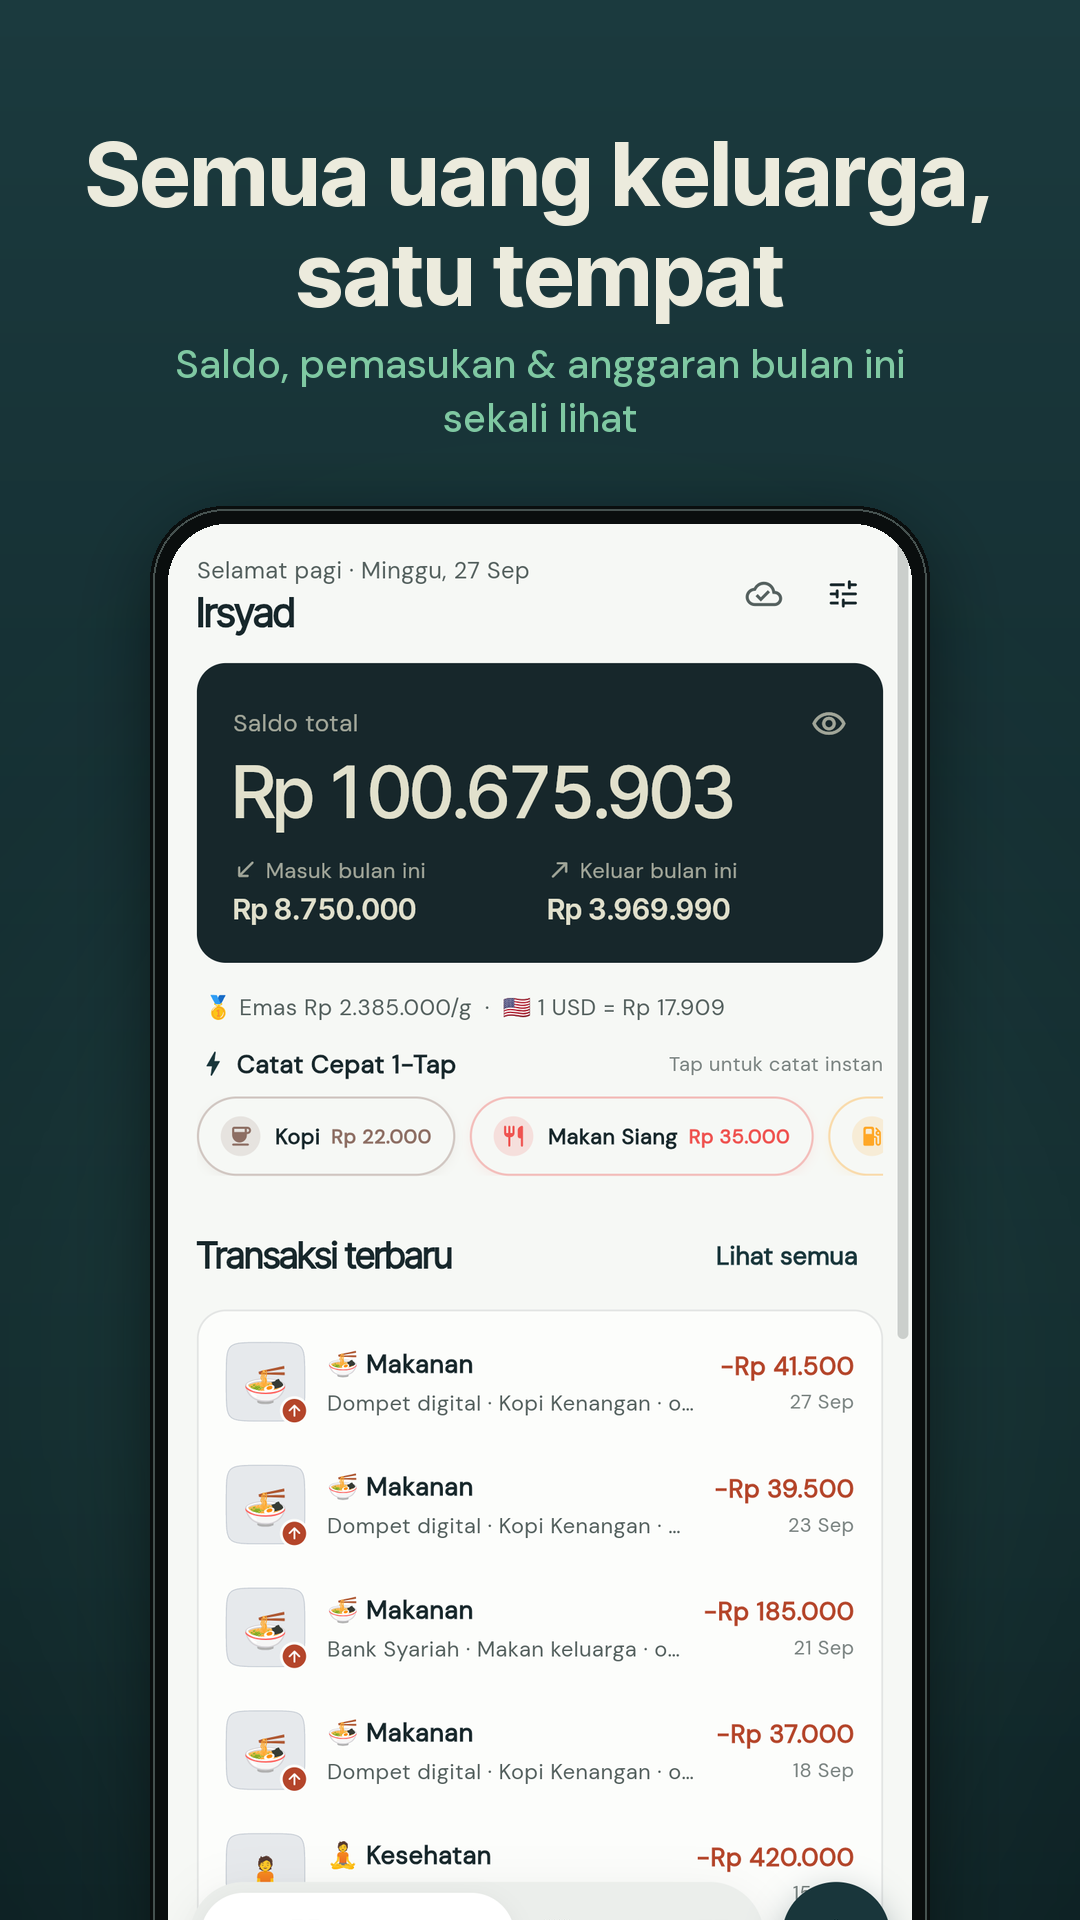
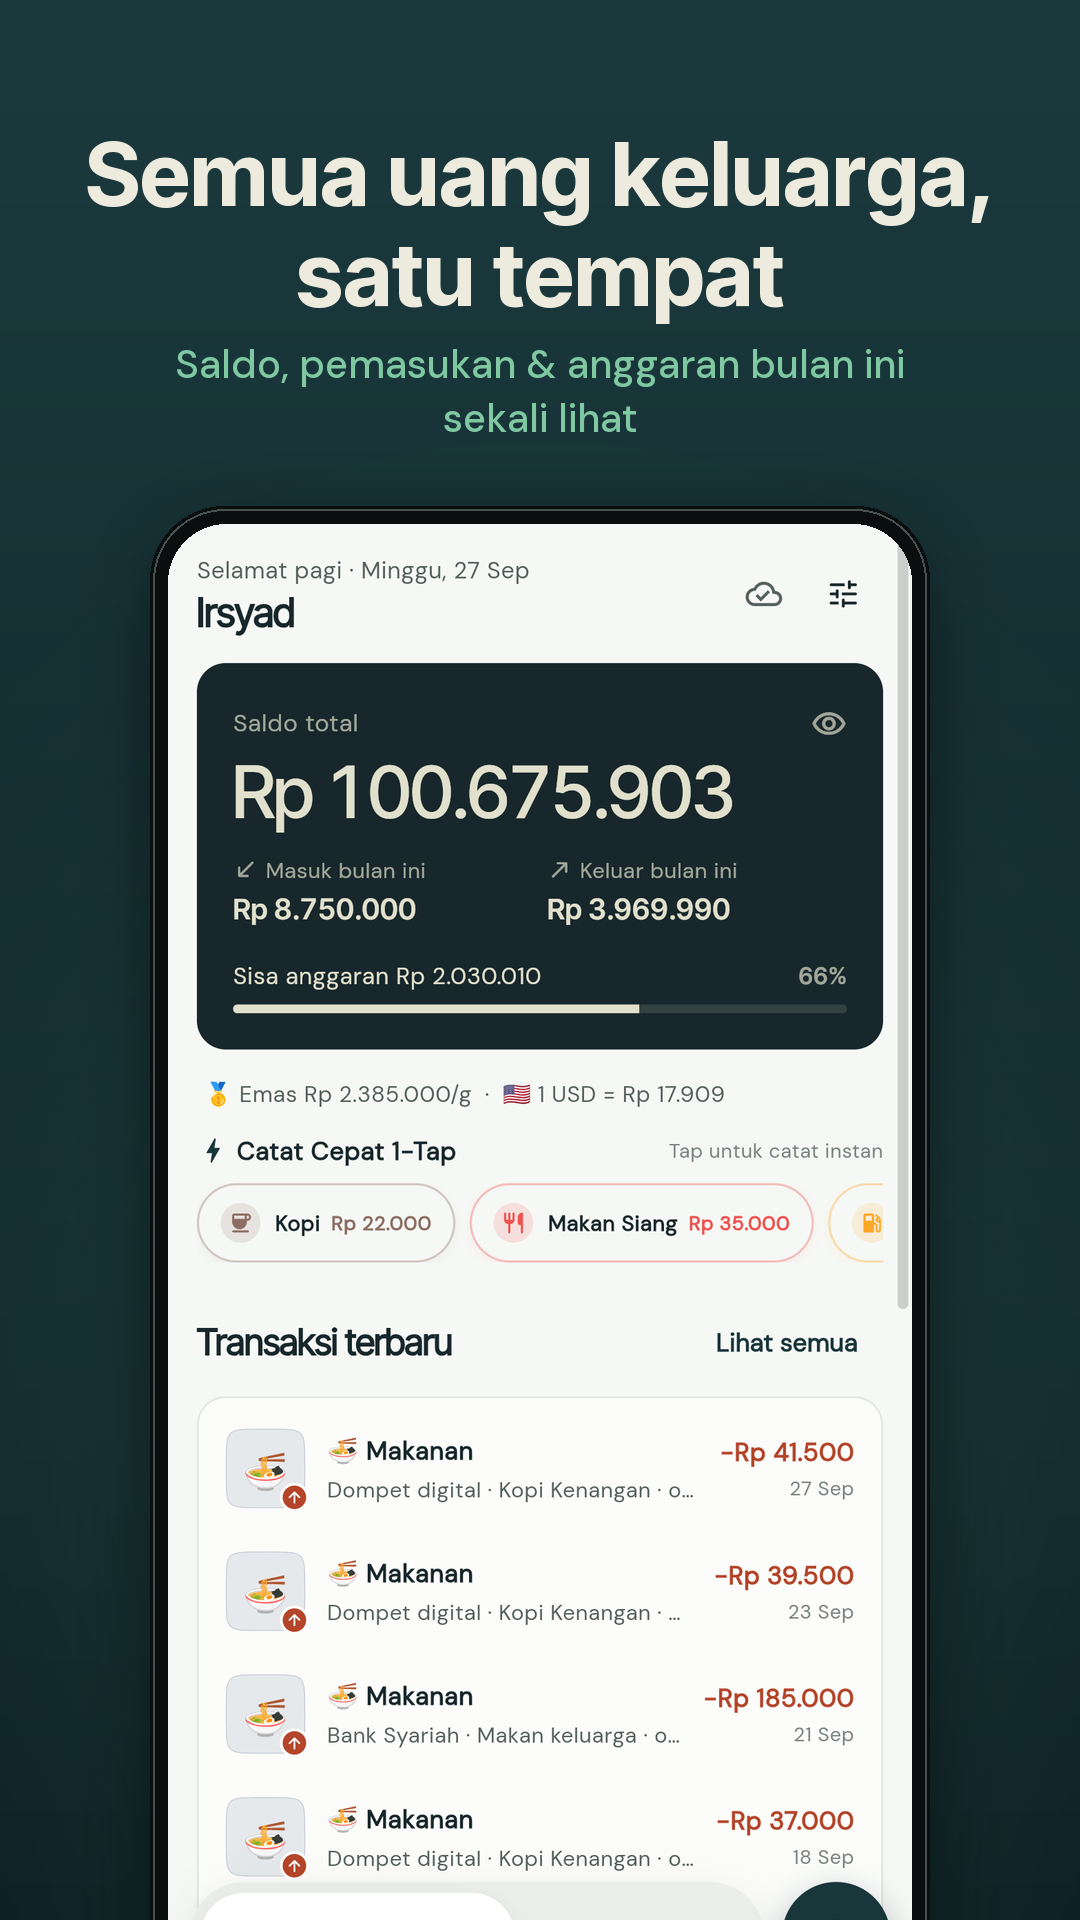
docs(play): deskripsi toko baru + set gambar terang "versi panjang" (8)
- description-id-ID.txt (3.079/4.000) & short-description (79/80): memuat
  fitur 1.3.0 (dolar/valas, emas Antam, kartu dompet, gestur, NFC di
  Beranda), menghapus klaim impor Money Manager, dan meluruskan dua klaim
  (peringatan anggaran di dalam aplikasi, bukan notifikasi; saldo NFC
  dicatat setelah dikonfirmasi, bukan otomatis). Dijaga tes panjang.
- store-1…8-*.png: latar terang ala aplikasi keuangan besar — pembuka
  logo + HP miring, slide "Tanpa iklan", lalu Catat, Dolar & emas,
  Anggaran, Laporan, Keluarga, Target.
- Data demo: contoh anggaran bulanan & per kategori serta dua target
  tabungan, agar layar tersebut berisi.

diff --git a/lib/app/demo_mode.dart b/lib/app/demo_mode.dart
@@ -1,5 +1,9 @@
 import 'package:uuid/uuid.dart';
 import 'package:financial_recording/data/models/account_model/account_model.dart';
+import 'package:financial_recording/data/models/budget_model/budget_model.dart';
+import 'package:financial_recording/data/models/goal_model/goal_model.dart';
+import 'package:financial_recording/data/repositories/budget_repository.dart';
+import 'package:financial_recording/data/repositories/goal_repository.dart';
 import 'package:financial_recording/data/models/tx_model/tx_model.dart';
 import 'package:financial_recording/data/models/crypto_model/crypto_holding_model.dart';
 import 'package:financial_recording/data/repositories/account_repository.dart';
@@ -99,6 +103,24 @@ Future<void> seedDemoData(DateTime now) async {
     imageUrl: 'https://coin-images.coingecko.com/coins/images/279/thumb/ethereum.png', note: 'Disimpan di Indodax',
   ));
   if (kDemoBig) await _seedBulk(now, [bank.id, wallet.id, savings.id], cats);
+  // A monthly budget and two savings goals, so those screens aren't empty.
+  final month = DateTime(now.year, now.month);
+  final budgets = BudgetRepository();
+  await budgets.upsert(BudgetModel(id: uuid.v4(), isTotal: true, amount: 6000000, startMonth: month));
+  for (final (name, limit) in [('Makanan', 2000000), ('Transportasi', 800000), ('Hiburan', 500000)]) {
+    await budgets.upsert(BudgetModel(id: uuid.v4(), categoryId: cat(name, 1), amount: limit, startMonth: month));
+  }
+  final goals = FinancialGoalRepository();
+  await goals.upsert(FinancialGoalModel(id: uuid.v4(), title: 'Dana Darurat', targetAmount: 30000000, currentAmount: 12500000, colorValue: 0xFF1F8A70));
+  await goals.upsert(FinancialGoalModel(
+    id: uuid.v4(),
+    title: 'Umroh Keluarga',
+    targetAmount: 60000000,
+    currentAmount: 18000000,
+    targetDate: DateTime(now.year + 1, 10),
+    colorValue: 0xFFB8892E,
+  ));
+
   await LedgerService().recomputeAllBalances();
 }
 

diff --git a/test/version_test.dart b/test/version_test.dart
@@ -18,6 +18,15 @@ void main() {
     expect(whatsNew.length, lessThanOrEqualTo(500));
   });
 
+  test('deskripsi Play dalam batas karakter (80 & 4000)', () {
+    final short = File('docs/play-store/short-description-id-ID.txt').readAsStringSync().trim();
+    final full = File('docs/play-store/description-id-ID.txt').readAsStringSync().trim();
+    expect(short.length, lessThanOrEqualTo(80));
+    expect(full.length, lessThanOrEqualTo(4000));
+    // Fitur yang sudah dihapus tidak boleh diiklankan.
+    expect(full.toLowerCase(), isNot(contains('mmbak')));
+  });
+
   test('urutan kartu tersimpan: akun terhapus dibuang, akun baru di depan', () {
     expect(CardOrderPrefs.apply(['b', 'x', 'a'], ['a', 'b', 'c']), ['c', 'b', 'a']);
     expect(CardOrderPrefs.apply([], ['a', 'b']), ['a', 'b']);

diff --git a/tool/store_listing.py b/tool/store_listing.py
@@ -1,5 +1,10 @@
 """Google Play listing images: app screens in a phone frame with a headline.
 
+Two sets are written:
+- listing-*.png: dark brand-green backdrop, 6 slides;
+- store-*.png: the "long" light set in the style of the big finance apps —
+  an intro slide (logo + tilted phone), a trust slide, then feature slides.
+
     flutter build web --release --dart-define=WALLET_DEMO=true -o <dir>
     python tool/store_listing.py <dir>
 
@@ -104,6 +109,19 @@ def capture(root):
         tap('Kategori')
         save('kategori')
 
+        tap('Lainnya')
+        tap('Keluarga')
+        page.wait_for_timeout(1200)
+        save('keluarga')
+
+        tap('Lainnya')
+        tap('Anggaran')
+        save('anggaran')
+
+        tap('Lainnya')
+        tap('Target')
+        save('target')
+
         ctx.close()
         browser.close()
     server.shutdown()
@@ -189,8 +207,120 @@ def compose(i, name, title, sub):
     print('saved', path)
 
 
+# ---------------------------------------------------------------- light set
+
+INK = (23, 39, 43)
+MUTED = (85, 97, 95)
+GREEN = (31, 138, 112)
+BG_TOP = (246, 248, 245)
+BG_BOTTOM = (221, 229, 224)
+
+LIGHT_SLIDES = [
+    ('intro', 'beranda', None, None),
+    ('trust', 'kartu', 'Tanpa iklan,\ntanpa jual data', None),
+    ('feature', 'catat', 'Catat dalam\nhitungan detik', 'Titik ribuan otomatis, tombol cepat\n& kalkulator bawaan'),
+    ('feature', 'akun', 'Dolar & emas,\nnilai hari ini', 'Kurs dunia & harga Antam per gram,\ndiperbarui otomatis'),
+    ('feature', 'anggaran', 'Atur anggaran,\ntanpa kaget', 'Peringatan dini sebelum\npengeluaran melewati batas'),
+    ('feature', 'laporan', 'Laporan yang\nmudah dipahami', 'Ke mana uang pergi, dan apa\nlangkah berikutnya'),
+    ('feature', 'keluarga', 'Satu buku kas\nuntuk seisi rumah', 'Undang keluarga dengan kode,\ncatat bersama secara langsung'),
+    ('feature', 'target', 'Wujudkan target\ntabungan', 'Dana darurat, umroh, sekolah anak —\npantau progresnya'),
+]
+
+
+def light_backdrop():
+    img = Image.new('RGB', (CW, CH))
+    d = ImageDraw.Draw(img)
+    for y in range(CH):
+        t = y / CH
+        d.line([(0, y), (CW, y)], fill=tuple(round(a + (b - a) * t) for a, b in zip(BG_TOP, BG_BOTTOM)))
+    return img.convert('RGBA')
+
+
+def centered(d, y, text, f, fill, gap):
+    for line in text.split('\n'):
+        w = d.textlength(line, font=f)
+        d.text(((CW - w) / 2, y), line, font=f, fill=fill)
+        y += gap
+    return y
+
+
+def drop_shadow(img, layer, pos, blur=38, alpha=90, offset=(0, 34)):
+    a = layer.split()[-1].point(lambda v: alpha if v > 0 else 0)
+    shadow = Image.new('RGBA', layer.size, (20, 40, 36, 0))
+    shadow.putalpha(a)
+    canvas = Image.new('RGBA', img.size, (0, 0, 0, 0))
+    canvas.alpha_composite(shadow, (pos[0] + offset[0], pos[1] + offset[1]))
+    img.alpha_composite(canvas.filter(ImageFilter.GaussianBlur(blur)))
+    img.alpha_composite(layer, pos)
+
+
+def light_feature(name, title, sub):
+    img = light_backdrop()
+    d = ImageDraw.Draw(img)
+    y = centered(d, 130, title, font('InterTight-Bold.ttf', 86), INK, 98)
+    y = centered(d, y + 18, sub, font('DMSans-Medium.ttf', 38), MUTED, 52)
+    ph = phone(Image.open(f'{RAW}/{name}.png'), 780)
+    drop_shadow(img, ph, ((CW - ph.width) // 2, y + 70))
+    return img
+
+
+def light_intro(name):
+    img = light_backdrop()
+    d = ImageDraw.Draw(img)
+    icon = Image.open(f'{OUT}/icon-512.png').convert('RGBA').resize((190, 190), Image.LANCZOS)
+    icon = rounded(icon, 44)
+    word = font('InterTight-Bold.ttf', 132)
+    ww = d.textlength('Wallet', font=word)
+    x = (CW - (190 + 36 + ww)) / 2
+    drop_shadow(img, icon, (int(x), 150), blur=24, alpha=70, offset=(0, 16))
+    d.text((x + 190 + 36, 162), 'Wallet', font=word, fill=INK)
+    centered(d, 390, 'Buku kas keluarga', font('InterTight-SemiBold.ttf', 58), GREEN, 70)
+    centered(d, 480, 'Catat, atur, dan pahami uang Anda', font('DMSans-Medium.ttf', 38), MUTED, 50)
+    ph = phone(Image.open(f'{RAW}/{name}.png'), 820).rotate(-16, resample=Image.BICUBIC, expand=True)
+    drop_shadow(img, ph, (CW - ph.width + 170, 620), blur=46, alpha=110, offset=(-30, 40))
+    return img
+
+
+def light_trust(name, title):
+    img = light_backdrop()
+    d = ImageDraw.Draw(img)
+    y = centered(d, 130, title, font('InterTight-Bold.ttf', 86), INK, 98)
+    chip_font = font('DMSans-SemiBold.ttf', 36)
+    chips = ['Tanpa iklan', 'Sinkron antarperangkat', 'Kunci PIN', 'Bisa dipakai offline']
+    rows = [chips[:2], chips[2:]]
+    y += 40
+    for row in rows:
+        widths = [d.textlength(c, font=chip_font) + 110 for c in row]
+        x = (CW - (sum(widths) + 24 * (len(row) - 1))) / 2
+        for c, w in zip(row, widths):
+            d.rounded_rectangle([x, y, x + w, y + 78], 39, fill=(255, 255, 255), outline=(205, 215, 209), width=2)
+            cx, cy = x + 44, y + 39
+            d.ellipse([cx - 18, cy - 18, cx + 18, cy + 18], fill=GREEN)
+            d.line([(cx - 8, cy + 1), (cx - 2, cy + 7), (cx + 9, cy - 6)], fill=(255, 255, 255), width=5)
+            d.text((x + 76, y + 18), c, font=chip_font, fill=INK)
+            x += w + 24
+        y += 100
+    ph = phone(Image.open(f'{RAW}/{name}.png'), 760)
+    drop_shadow(img, ph, ((CW - ph.width) // 2, y + 50))
+    return img
+
+
+def compose_light():
+    for i, (kind, name, title, sub) in enumerate(LIGHT_SLIDES):
+        if kind == 'intro':
+            img = light_intro(name)
+        elif kind == 'trust':
+            img = light_trust(name, title)
+        else:
+            img = light_feature(name, title, sub)
+        path = f'{OUT}/store-{i + 1}-{name}.png'
+        img.convert('RGB').save(path, optimize=True)
+        print('saved', path)
+
+
 if __name__ == '__main__':
     if len(sys.argv) > 1:
         capture(sys.argv[1])
     for i, (name, title, sub) in enumerate(SLIDES):
         compose(i, name, title, sub)
+    compose_light()

diff --git a/docs/PLAY_STORE.md b/docs/PLAY_STORE.md
@@ -20,7 +20,7 @@ Status per 25 September 2026. Paket aplikasi: **`com.irsyads.wallet`**.
 **Yang masih perlu Anda siapkan sebelum mengisi Play Console:**
 
 1. ~~Email dukungan~~ ✅ `irsyad.msk@gmail.com` (dipakai di kebijakan privasi, halaman hapus akun, dan kolom kontak Play).
-2. ~~Screenshot~~ ✅ **Gambar toko berjudul** `docs/play-store/listing-1…6-*.png` (1080×1920, 9:16, layar dalam bingkai HP + judul) — pakai ini di Play Console. Dibuat ulang dengan `tool/store_listing.py <build web demo>`. Tangkapan polos lama `screenshot-*.png` (tool/store_screenshots.py) masih ada sebagai cadangan.
+2. ~~Screenshot~~ ✅ **Gambar toko berjudul** `docs/play-store/listing-1…6-*.png` (1080×1920, 9:16, layar dalam bingkai HP + judul) — pakai ini di Play Console. Dibuat ulang dengan `tool/store_listing.py <build web demo>`. Set terang "versi panjang" 8 gambar `store-1…8-*.png` (pembuka logo + HP miring, slide kepercayaan, lalu fitur) juga dibuat alat yang sama. Deskripsi toko: `description-id-ID.txt` (≤ 4000) dan `short-description-id-ID.txt` (≤ 80). Tangkapan polos lama `screenshot-*.png` (tool/store_screenshots.py) masih ada sebagai cadangan.
 3. ~~Feature graphic~~ ✅ `docs/play-store/feature-graphic.png` (1024×500), dibuat dengan `tool/make_feature_graphic.py`.
 4. **Akun uji untuk tim review Google**, karena aplikasi wajib login. Buat satu akun Supabase khusus (misalnya `review@irsyads.com`) dan isi dengan data contoh.
 
